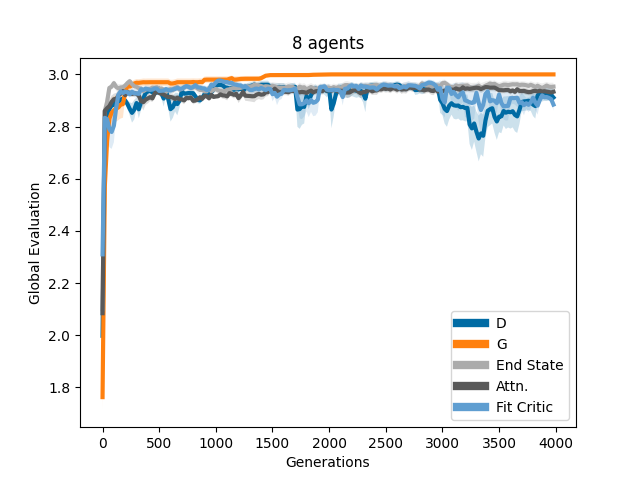
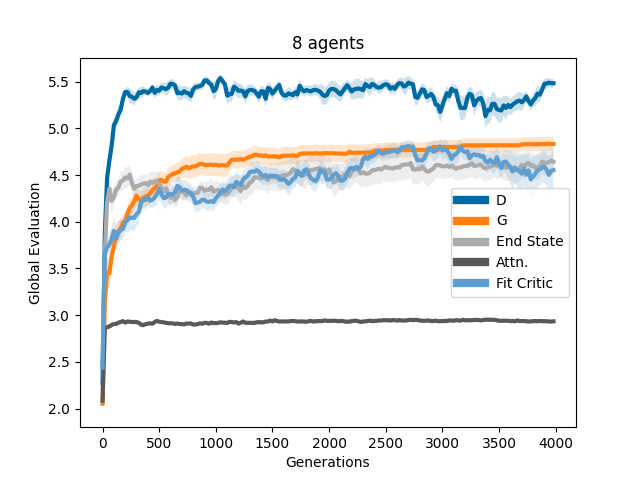
running attention again

diff --git a/plot3.py b/plot3.py
@@ -1,0 +1,96 @@
+import numpy as np
+import pickle
+import plotly.graph_objects as go
+from plotly.subplots import make_subplots
+
+from sklearn import preprocessing
+from sklearn.linear_model import LinearRegression
+'''
+scp -J cookjos@access.engr.oregonstate.edu cookjos@graf200-17.engr.oregonstate.edu:credit/save/* save/
+'''
+num=8
+typ=1
+#fig = plt.figure()
+specs=[
+        [{"type": "scatter3d"}],
+    ]
+fig = make_subplots(rows=1, cols=1,specs=specs)
+
+
+
+for i in [1]:
+
+    
+    x,g=[],[]
+    for idx in range(1):
+        try:
+            with open("0-82.pkl","rb") as f:
+                X,G=pickle.load(f)
+        except:
+            pass
+        x.append(X)
+        g.append(G)
+
+    x,g=np.array(x)[0],np.array(g)[0]
+    VMAX=np.max(g)
+    print(-np.min(g))
+    
+    idx=(-g).argsort()
+    
+    print(idx.shape,x.shape)
+    x,g=x[idx,:],g[idx]
+    for qq in range(6):
+        for xx in x[qq]:
+            print(np.round(xx,6),sep=", ",end=" ")
+        print(g[qq])
+
+    x=np.array(x)
+    lr, hidden, buffer = x.T
+
+    
+    barloc=[1/3.0,2.0/3.0,1]
+    
+    fig.add_trace(go.Scatter3d(
+        x=lr,
+        y=hidden,
+        z=buffer,
+        mode='markers',
+        marker=dict(
+            cmin=0.0,
+            cmax=VMAX*1.0,
+            size=6,#np.sqrt(buffer/10),
+            color=g,                # set color to an array/list of desired values
+            colorscale='Viridis',   # choose a colorscale
+            opacity=0.8,
+            colorbar=dict(title = "G",x=barloc[i-1])
+        )
+    ),row=1,col=i)
+
+    g=np.array([g]).T
+    
+    min_max_scaler = preprocessing.MinMaxScaler()
+    X = min_max_scaler.fit_transform(x)
+    reg = LinearRegression().fit(X, g)
+    print(reg.coef_)
+    '''
+    ax = fig.add_subplot(130+i,projection='3d')
+
+    p=ax.scatter(lr, hidden, batch, s=np.sqrt(buffer/10),c=-g, vmin=0,vmax=VMAX, marker='o')
+
+    ax.set_xlabel('lr')
+    ax.set_ylabel('hidden')
+    ax.set_zlabel('batch')
+    plt.colorbar(p)
+    plt.title(str(num)+" agents")
+    print(x.shape,g.shape)
+    '''
+
+# tight layout
+#fig.update_layout(margin=dict(l=0, r=0, b=0, t=0))
+lbls=dict(
+xaxis_title='lr',
+yaxis_title='batch',
+zaxis_title='buffer')
+fig.update_layout(scene =lbls,scene2 =lbls,scene3=lbls )
+fig.show()
+#plt.show()

diff --git a/rewards/attention.py b/rewards/attention.py
@@ -25,7 +25,7 @@ def getPositionEncoding(seq_len, d, n=10000):
     return P
 
 class Net(nn.Module):
-    def __init__(self,device,hidden=20*4,lr=5e-4,seq_len=46,idim=8,loss_fn=0):#*4
+    def __init__(self,device,hidden=200,lr=5e-4,seq_len=46,idim=8,loss_fn=0):#*4
         super(Net, self).__init__()
         learning_rate=lr
         self.device=device
@@ -94,7 +94,7 @@ class attention():
         self.nagents=nagents
         if params is None:
             self.nets=[Net(device,loss_fn=loss_f).to(device) for i in range(nagents)]
-            self.hist=[deque(maxlen=30000) for i in range(nagents)]
+            self.hist=[deque(maxlen=100000) for i in range(nagents)]
         else:
             lr,hidden,hist=params
             hidden,hist=int(hidden),int(hist)

diff --git a/experiments.py b/experiments.py
@@ -40,9 +40,9 @@ if __name__ == '__main__':
         mp.set_start_method('spawn')
     except:
         print("no spawn")
-    for n_agents in [4,8]:
-        for coupling in [1,2]:
-            for reward_type in [-2,-1,0,2,4]:
+    for n_agents in [8]:
+        for coupling in [2]:
+            for reward_type in [2,3]:
                 procs=[]
                 for trial in range(10):
                     p=mp.Process(target=experiment,args=(n_agents,reward_type,coupling,trial,device))
